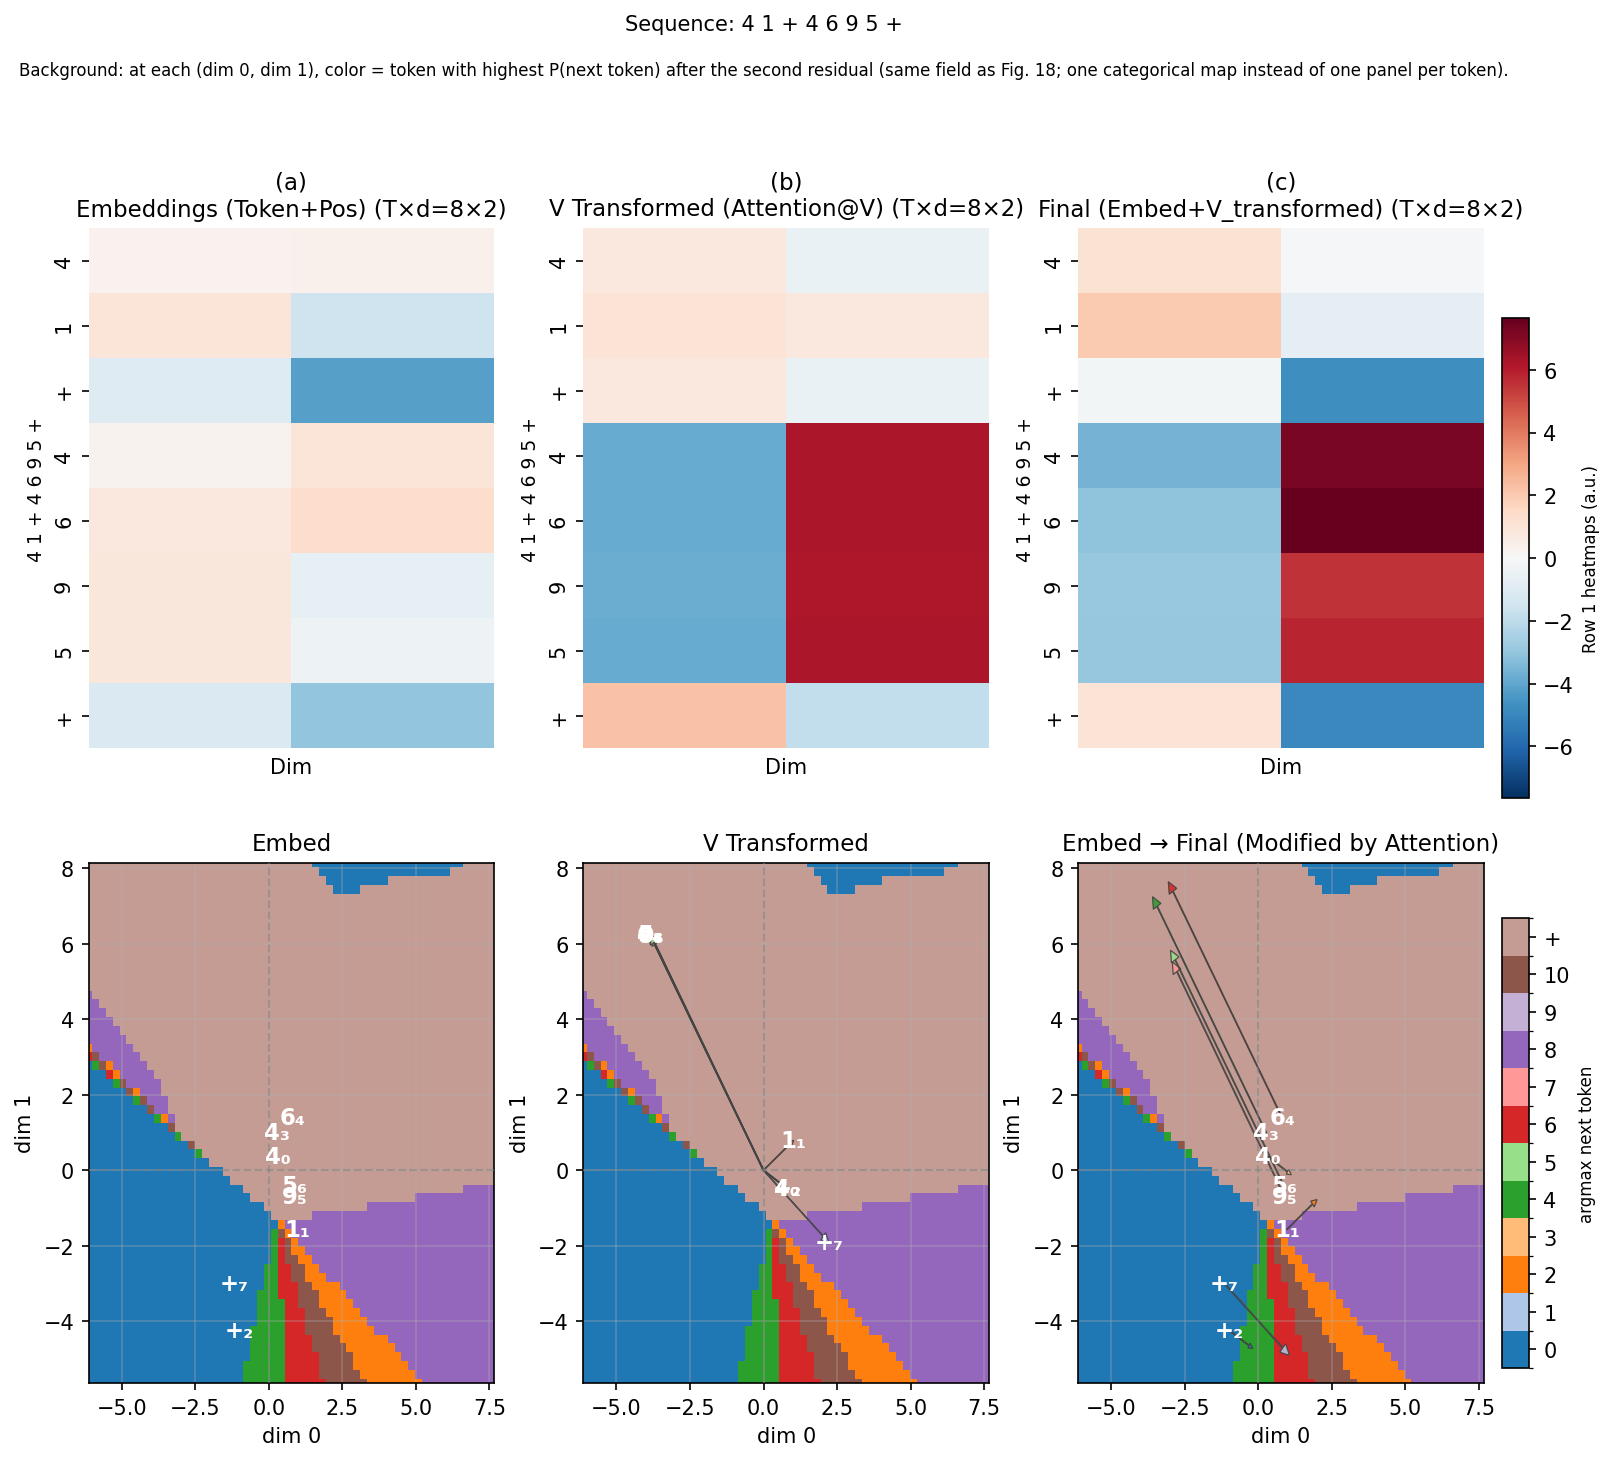
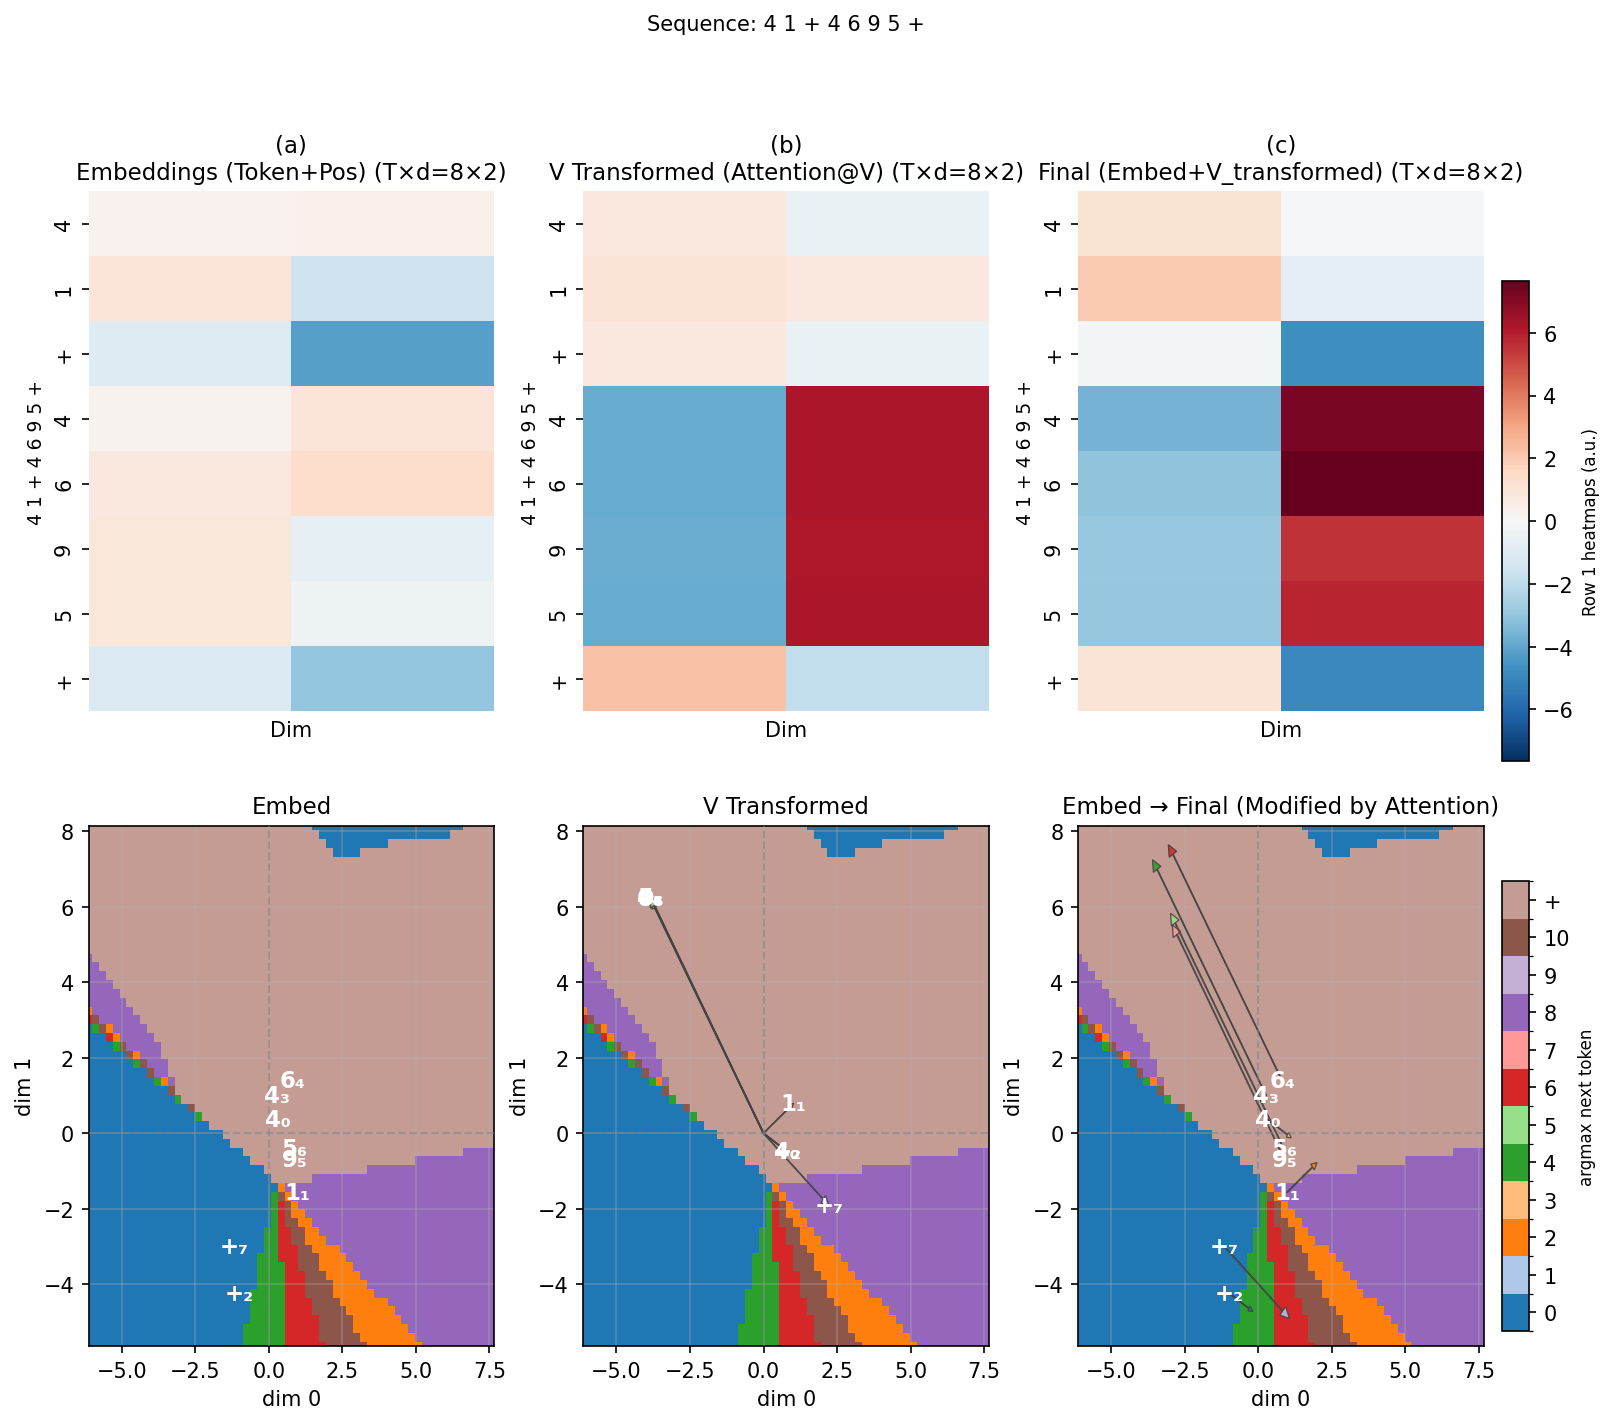
figure 17 title

diff --git a/plotting/17_residuals.py b/plotting/17_residuals.py
@@ -229,6 +229,7 @@ def plot_residuals(model, X_list, itos, save_path=None, num_sequences=3):
     
     # Second pass: create plots
     _resid_axes = []
+    ax_col_b_top = None  # top-row axis of column (b); sequence title centered over this
     for data_dict in all_data:
         seq_idx = data_dict['seq_idx']
         tokens = data_dict['tokens']
@@ -267,6 +268,8 @@ def plot_residuals(model, X_list, itos, save_path=None, num_sequences=3):
             ax.set_title(f"{_p0}Embed ({dim_str})" if _u._JOURNAL_MODE else f"{_p0}Embeddings (Token+Pos) {dim_str}", fontsize=_hm_fs)
         # V Transformed heatmap
         ax = fig.add_subplot(gs[r0_r, c_v_hm])
+        if use_two_rows_r:
+            ax_col_b_top = ax
         _resid_axes.append(ax)
         dim_str = f"(T×d={T}×{V_transformed.shape[1]})"
         sns.heatmap(V_transformed, cmap="RdBu_r", center=0, vmin=hm_vmin, vmax=hm_vmax,
@@ -403,25 +406,26 @@ def plot_residuals(model, X_list, itos, save_path=None, num_sequences=3):
         ax.set_title(f"Embed → Final (Modified by Attention){title_suffix}", fontsize=_sc_fs)
         ax.grid(True, alpha=0.35, zorder=4)
     
-    # Title + optional caption for output landscape (single-sequence figure)
-    if use_two_rows_r and all_data:
-        seq_str_sub = all_data[0]['seq_str']
-        if show_landscape:
-            fig.text(0.5, 1.012, f"Sequence: {seq_str_sub}", ha="center", fontsize=10, transform=fig.transFigure)
-            cap = (
-                "Background: at each (dim 0, dim 1), color = token with highest P(next token) after the second residual "
-                "(same field as Fig. 18; one categorical map instead of one panel per token)."
-            )
-            if _u._JOURNAL_MODE:
-                cap = (
-                    "Background = argmax_v P(next=v) in embedding plane (post-second residual; same as Fig. 18, one panel)."
-                )
-            fig.text(0.5, 0.982, cap, ha="center", fontsize=7 if _u._JOURNAL_MODE else 8, transform=fig.transFigure)
-        else:
-            fig.suptitle(f"Sequence: {seq_str_sub}", fontsize=10, y=1.02)
-    top_rect = 0.90 if show_landscape else 0.95
+    top_rect = 0.95
     right_rect = 0.86 if show_landscape else 0.90
     plt.tight_layout(rect=[0, 0, right_rect, top_rect], pad=0.4)
+    # Sequence title: centered over column (b) — use bbox of V heatmap after layout
+    if use_two_rows_r and all_data:
+        seq_str_sub = all_data[0]['seq_str']
+        if ax_col_b_top is not None:
+            _pos_b = ax_col_b_top.get_position()
+            _seq_x = _pos_b.x0 + _pos_b.width / 2
+        else:
+            _seq_x = right_rect / 2
+        if show_landscape:
+            fig.text(
+                _seq_x, 0.998, f"Sequence: {seq_str_sub}",
+                ha="center", va="top", fontsize=10, transform=fig.transFigure,
+            )
+        else:
+            fig.suptitle(
+                f"Sequence: {seq_str_sub}", fontsize=10, x=_seq_x, y=0.99, ha="center",
+            )
     # Colorbar(s) in right margin
     if heatmap_axes and use_two_rows_r:
         mappable = heatmap_axes[0].collections[0]
